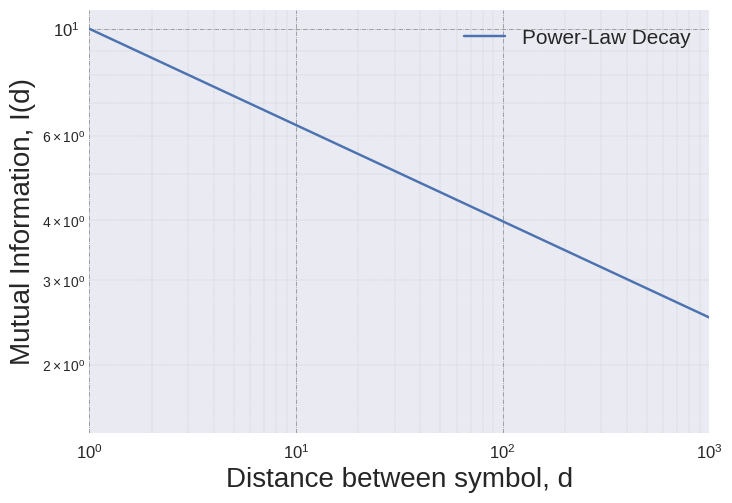
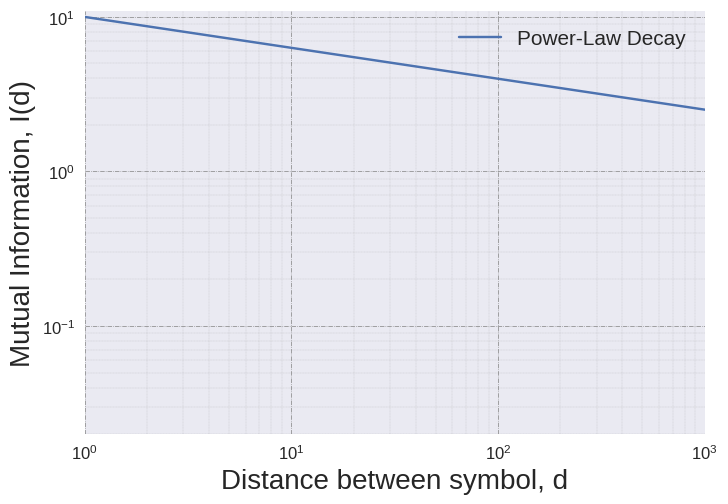
Up

diff --git a/paper_related/framework.py b/paper_related/framework.py
@@ -23,7 +23,7 @@ with plt.style.context(('seaborn')):
     ##########################################################################################################################
 
     a = 10
-    alpha = 0.2
+    alpha = 1.2
     y = a*pow(x,-alpha)
     p2 = plt.loglog(x, y, label="Power-Law Decay")
 
@@ -55,8 +55,8 @@ with plt.style.context(('seaborn')):
     plt.grid(which='major', linestyle='-.', linewidth='0.5', color='grey')
     plt.grid(which='minor', linestyle=':', linewidth='0.2', color='grey')
     ax.set_xlim(1.0, 1000.0)
-    #ax.set_ylim(0.1, 3)
+    ax.set_ylim(0.02, 11)
     ax.set_xlabel('Distance between symbol, d', fontsize=20)
     ax.set_ylabel('Mutual Information, I(d)', fontsize=20)
-    plt.savefig('pl_shallow', bbox_extra_artists=(lgd,), bbox_inches='tight')
+    plt.savefig('pl_deep', bbox_extra_artists=(lgd,), bbox_inches='tight')
     plt.show()
